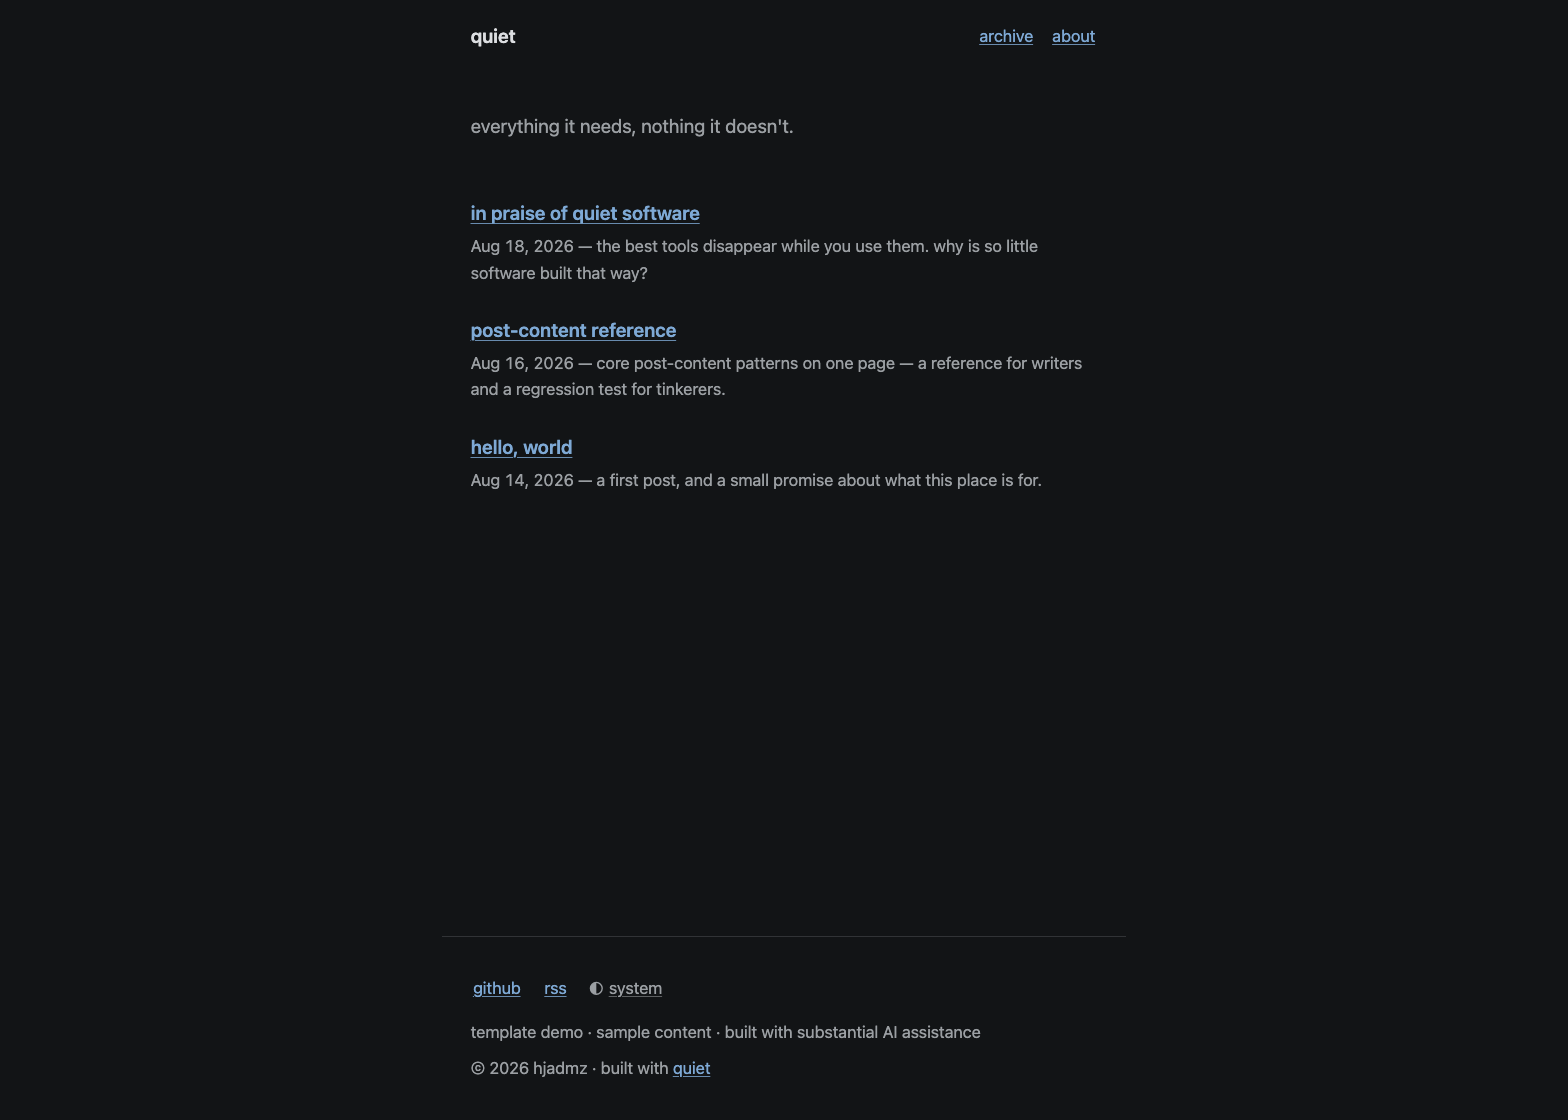
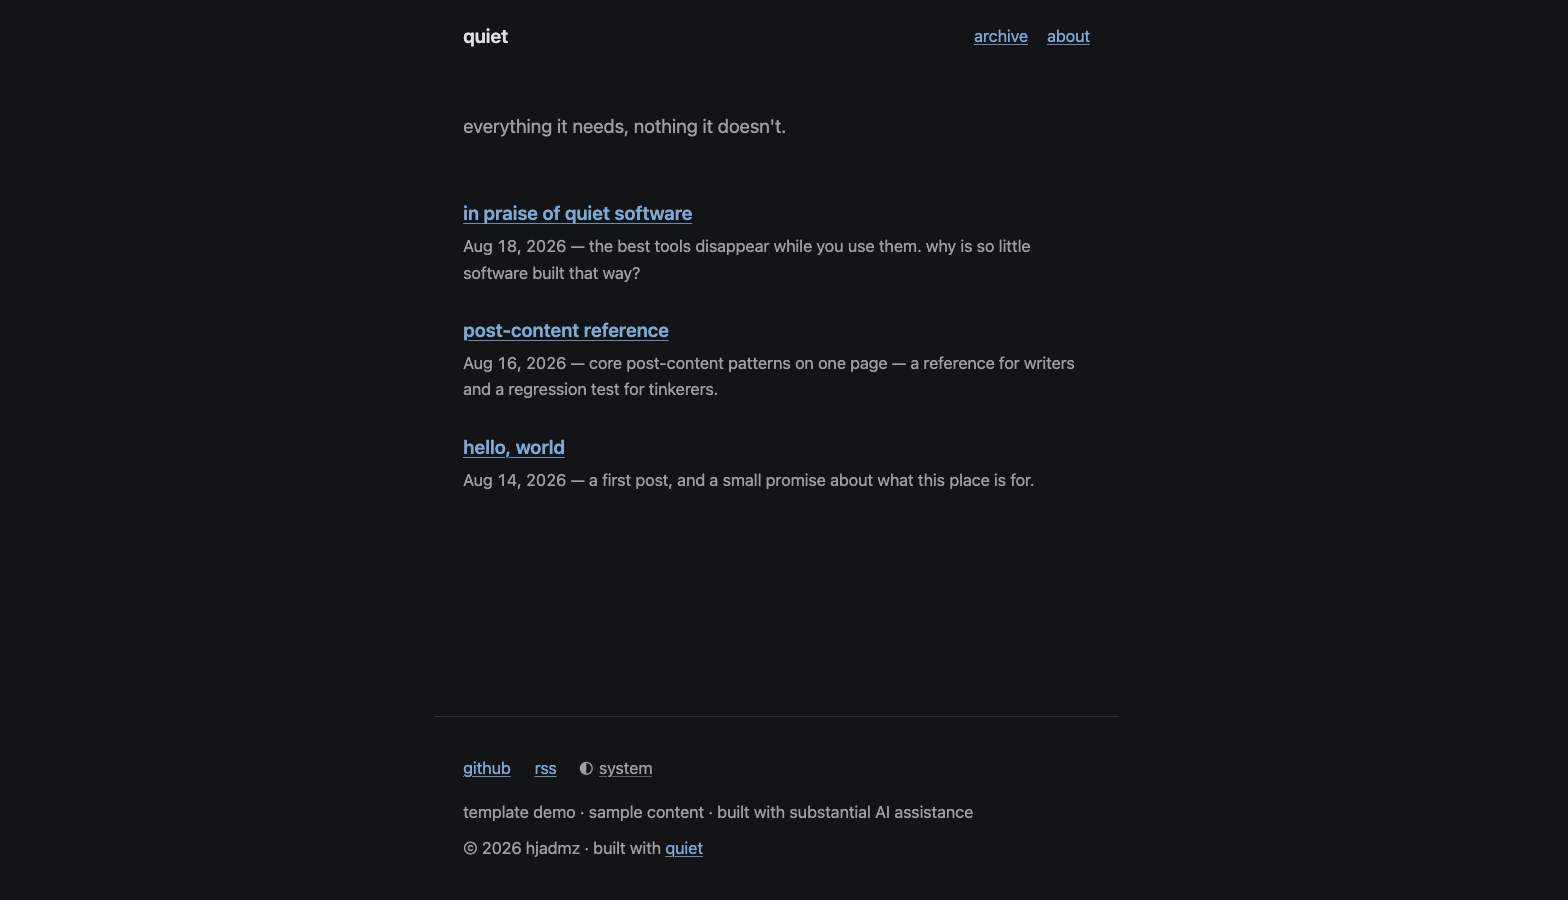
Show the site, not a warning about it
The README's screenshots were from the first commit this morning, so the
public repo advertised a layout from before every alignment fix. Worse,
regenerating them surfaced something I caused: the footer's config notice
is gated on JEKYLL_ENV, the screenshot build was not production, and the
new tagline check made it fire — putting "1 setting in your config could
not be used as written" in the hero image of a template people judge in
five seconds.

docs:screenshots now builds as production, and the viewport is 900px tall
rather than 1120. The footer is pinned to the bottom of the window, so an
over-tall shot is mostly the gap above it.

Also removed "See the live demo" from the first line. quiet.hjadmz.com
does not resolve, and a dead link in the opening sentence of a public
README is a worse first impression than no link. The screenshots directly
below already do that job.

diff --git a/README.md b/README.md
@@ -1,7 +1,6 @@
 # quiet
 
 A reading-first Jekyll blog template for GitHub Pages and static hosts.
-[See the live demo](https://quiet.hjadmz.com).
 
 **The philosophy in three sentences.** Function first, then convenience,
 then aesthetics. The reader outranks the writer, and the writer outranks
